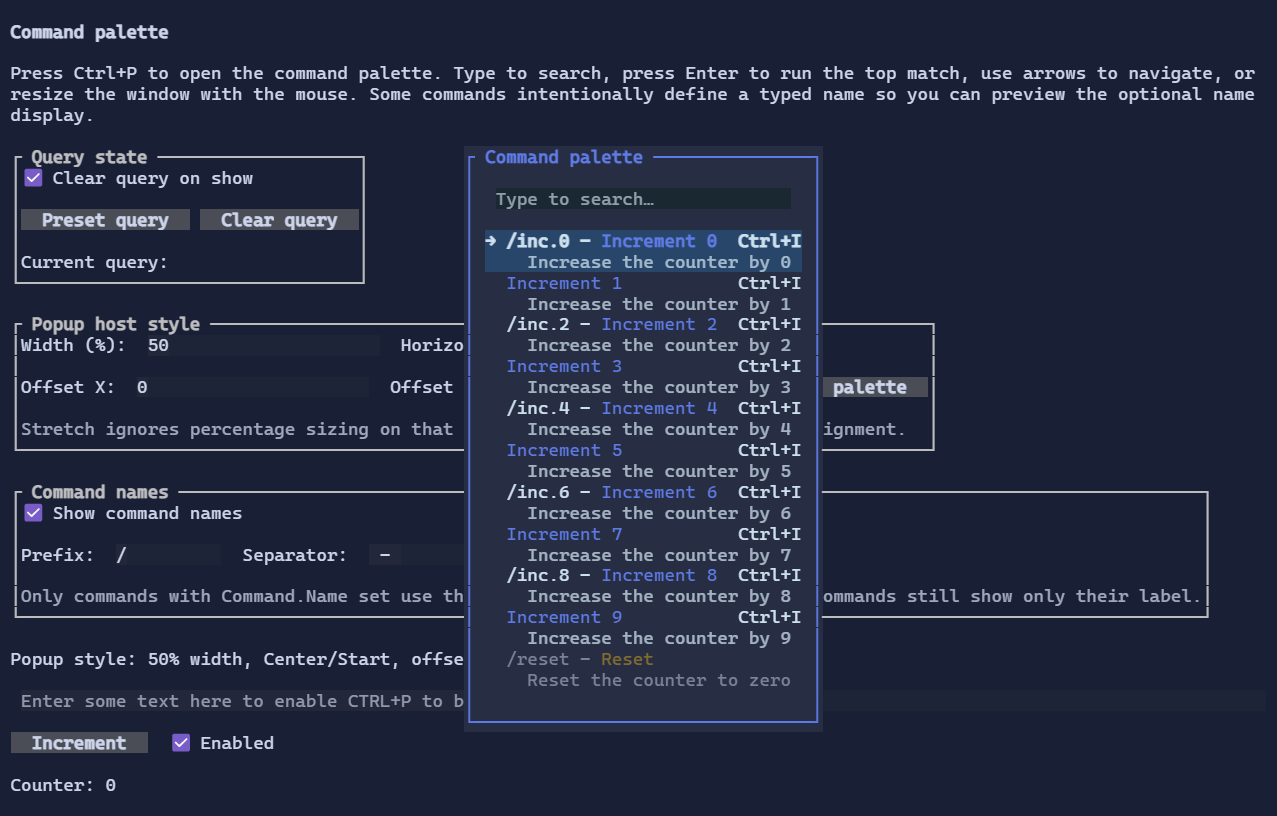
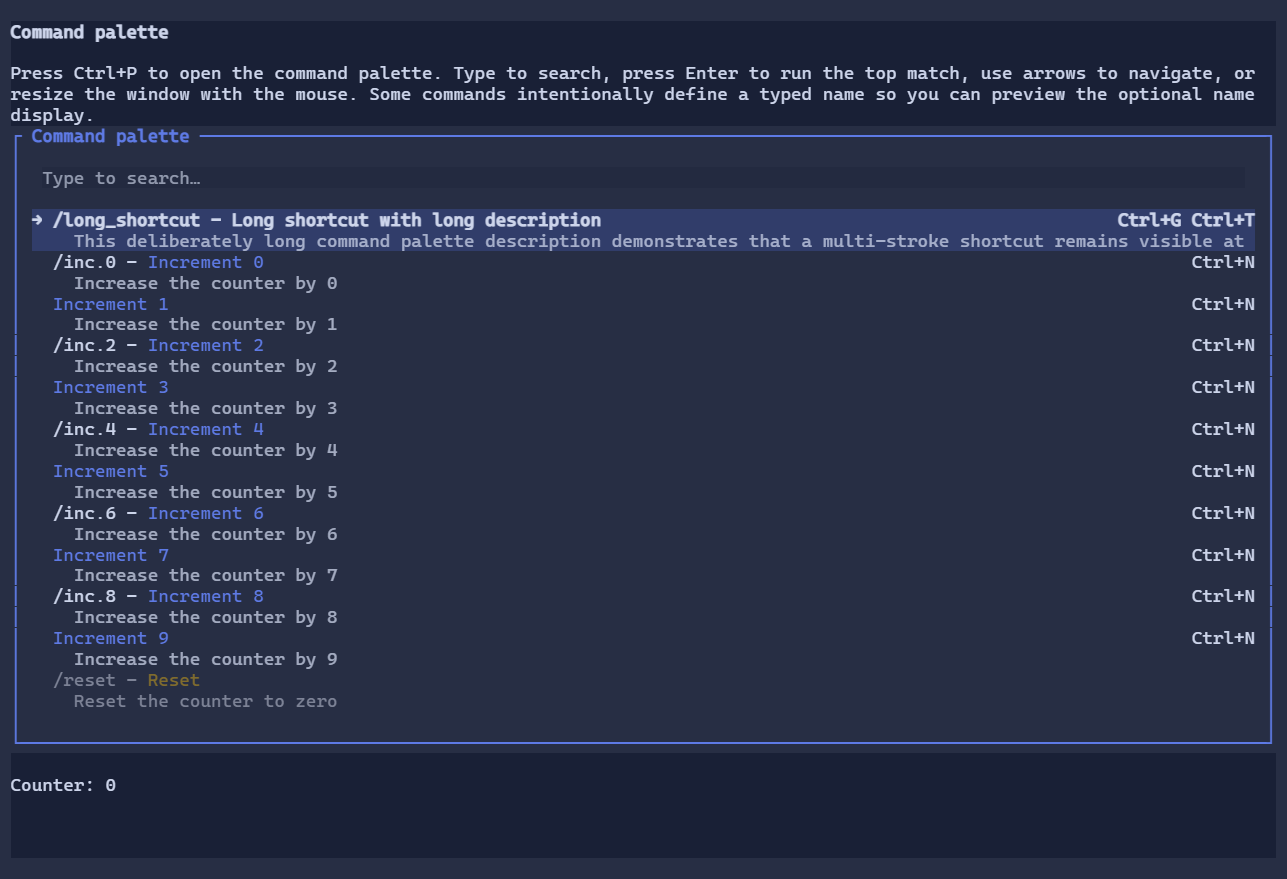
Keep command palette shortcuts visible

Changed region(s): [[0.0, 0.0306, 1.0, 0.9804], [0.3054, 0.4596, 0.3665, 0.4902], [0.3054, 0.3983, 0.3665, 0.4289]]

diff --git a/src/XenoAtom.Terminal.UI/Controls/OptionList.cs b/src/XenoAtom.Terminal.UI/Controls/OptionList.cs
@@ -133,6 +133,8 @@ public sealed partial class OptionList<T> : Visual, IScrollable
     [Bindable]
     private partial int MeasuredItemHeight { get; set; }
 
+    internal bool UseHorizontalScrollExtent { get; set; } = true;
+
     partial void OnSelectedIndexChanging(ref int value)
     {
         _oldSelectedForEvent = _selectedIndex;
@@ -197,6 +199,11 @@ public sealed partial class OptionList<T> : Visual, IScrollable
         MeasuredItemHeight = itemHeight;
 
         var width = prefixWidth + itemWidth;
+        if (!UseHorizontalScrollExtent && constraints.IsWidthBounded)
+        {
+            width = Math.Min(width, constraints.MaxWidth);
+        }
+
         MeasuredContentWidth = Math.Max(0, width);
         var desiredHeight = Math.Max(1, _itemVisuals.Count * itemHeight);
 
@@ -239,7 +246,9 @@ public sealed partial class OptionList<T> : Visual, IScrollable
 
         var count = Items.Count;
         var selected = Math.Clamp(SelectedIndex, 0, Math.Max(0, count - 1));
-        var extentWidth = Math.Max(innerWidth, Math.Max(0, MeasuredContentWidth));
+        var extentWidth = UseHorizontalScrollExtent
+            ? Math.Max(innerWidth, Math.Max(0, MeasuredContentWidth))
+            : innerWidth;
 
         _scroll.SetViewport(innerWidth, viewportHeight);
         _scroll.SetExtent(extentWidth, Math.Max(0, count * itemHeight));
@@ -251,6 +260,12 @@ public sealed partial class OptionList<T> : Visual, IScrollable
         }
 
         var maxOffsetY = Math.Max(0, _scroll.ExtentHeight - _scroll.ViewportHeight);
+        var maxOffsetX = Math.Max(0, _scroll.ExtentWidth - _scroll.ViewportWidth);
+        if (_scroll.OffsetX > maxOffsetX)
+        {
+            _scroll.SetOffset(maxOffsetX, _scroll.OffsetY);
+        }
+
         if (_scroll.OffsetY > maxOffsetY)
         {
             _scroll.SetOffset(_scroll.OffsetX, maxOffsetY);
@@ -264,7 +279,7 @@ public sealed partial class OptionList<T> : Visual, IScrollable
         }
 
         var scrollOffset = itemHeight == 0 ? 0 : (_scroll.OffsetY / itemHeight);
-        var offsetX = _scroll.OffsetX;
+        var offsetX = UseHorizontalScrollExtent ? _scroll.OffsetX : 0;
         var itemLeft = innerLeft + prefixWidth - offsetX;
         var itemWidth = Math.Max(0, extentWidth - prefixWidth);
 

diff --git a/src/XenoAtom.Terminal.UI.Tests/CommandPaletteTests.cs b/src/XenoAtom.Terminal.UI.Tests/CommandPaletteTests.cs
@@ -160,6 +160,38 @@ public sealed class CommandPaletteTests
     }
 
     [TestMethod]
+    public void CommandPalette_Keeps_MultiStroke_Shortcut_Visible_When_Description_Is_Long()
+    {
+        var root = new VStack();
+        using var driver = new TerminalAppTestDriver(root, TerminalHostKind.Fullscreen, new TerminalSize(80, 16));
+        driver.Tick();
+
+        var palette = new CommandPalette().Style(CommandPaletteStyle.Default with
+        {
+            MinWidth = 50,
+            MaxWidth = 50,
+        });
+
+        driver.App.AddGlobalCommand(new Command
+        {
+            Id = "cmd.long-description",
+            LabelMarkup = "Long description command",
+            DescriptionMarkup = "[dim]This description is intentionally long enough to exceed the command palette viewport and must not push the shortcut outside the visible row.[/]",
+            Sequence = new KeySequence(
+                new KeyGesture(TerminalChar.CtrlG, TerminalModifiers.Ctrl),
+                new KeyGesture(TerminalChar.CtrlT, TerminalModifiers.Ctrl)),
+            Presentation = CommandPresentation.CommandPalette,
+            Execute = _ => { },
+        });
+
+        palette.Show();
+        driver.Tick();
+
+        var rendered = GetRenderedText(driver, 80, 16);
+        StringAssert.Contains(rendered, "Ctrl+G Ctrl+T");
+    }
+
+    [TestMethod]
     public void CommandPalette_Invokes_Action_On_Activated_Item()
     {
         var invoked = false;

diff --git a/samples/ControlsDemo/Demos/CommandPaletteDemo.cs b/samples/ControlsDemo/Demos/CommandPaletteDemo.cs
@@ -111,6 +111,20 @@ public sealed class CommandPaletteDemo : ControlsDemoBase
             Execute = _ => ShowPalette(),
         });
 
+        host.AddCommand(new Command
+        {
+            Id = "Demo.LongShortcutDescription",
+            Name = "long_shortcut",
+            LabelMarkup = "Long shortcut with long description",
+            DescriptionMarkup = "[dim]This deliberately long command palette description demonstrates that a multi-stroke shortcut remains visible at the right edge instead of being pushed off-screen by the description text.[/]",
+            Sequence = new KeySequence(
+                new KeyGesture(TerminalChar.CtrlG, TerminalModifiers.Ctrl),
+                new KeyGesture(TerminalChar.CtrlT, TerminalModifiers.Ctrl)),
+            Presentation = CommandPresentation.CommandPalette,
+            CanExecute = _ => enabled.Value,
+            Execute = _ => counter.Value += 100,
+        });
+
         for (int i = 0; i < 10; i++)
         {
             int localI = i; // Capture loop variable

diff --git a/src/XenoAtom.Terminal.UI/Controls/CommandPalette.cs b/src/XenoAtom.Terminal.UI/Controls/CommandPalette.cs
@@ -64,6 +64,8 @@ public sealed partial class CommandPalette : Visual
         _results = new OptionList<ResolvedCommand>()
             .ActivateOnClick(true)
             .HorizontalAlignment(Align.Stretch);
+        // Long labels/descriptions should clip inside the palette; keep shortcuts aligned to the visible row edge.
+        _results.UseHorizontalScrollExtent = false;
 
         _results.ItemIsEnabled = (Func<ResolvedCommand, bool>)(item => item.IsEnabled);
         _results.ItemSearchText = (Func<ResolvedCommand, string?>)(item => item.Command.Name ?? item.Command.SearchText ?? item.Command.LabelMarkup);
